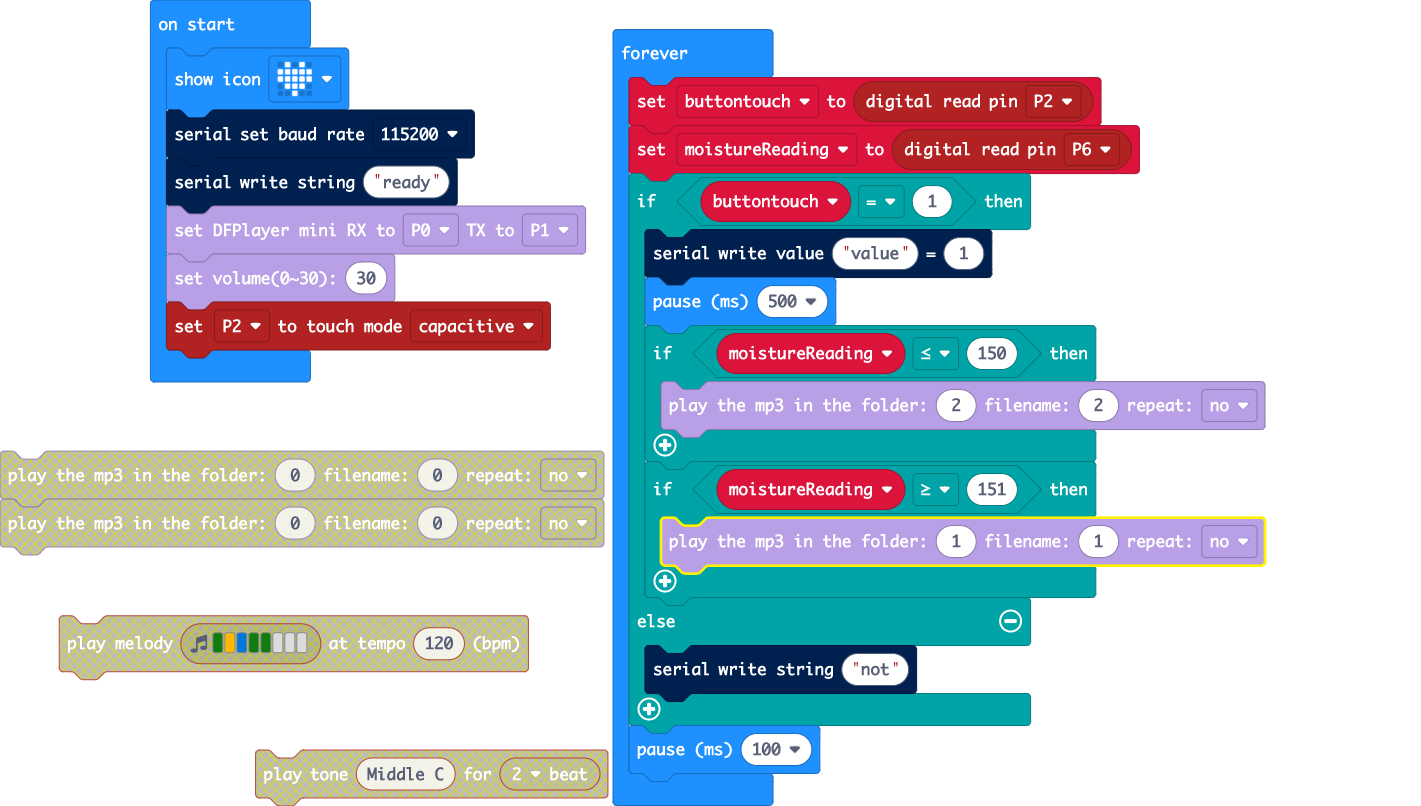
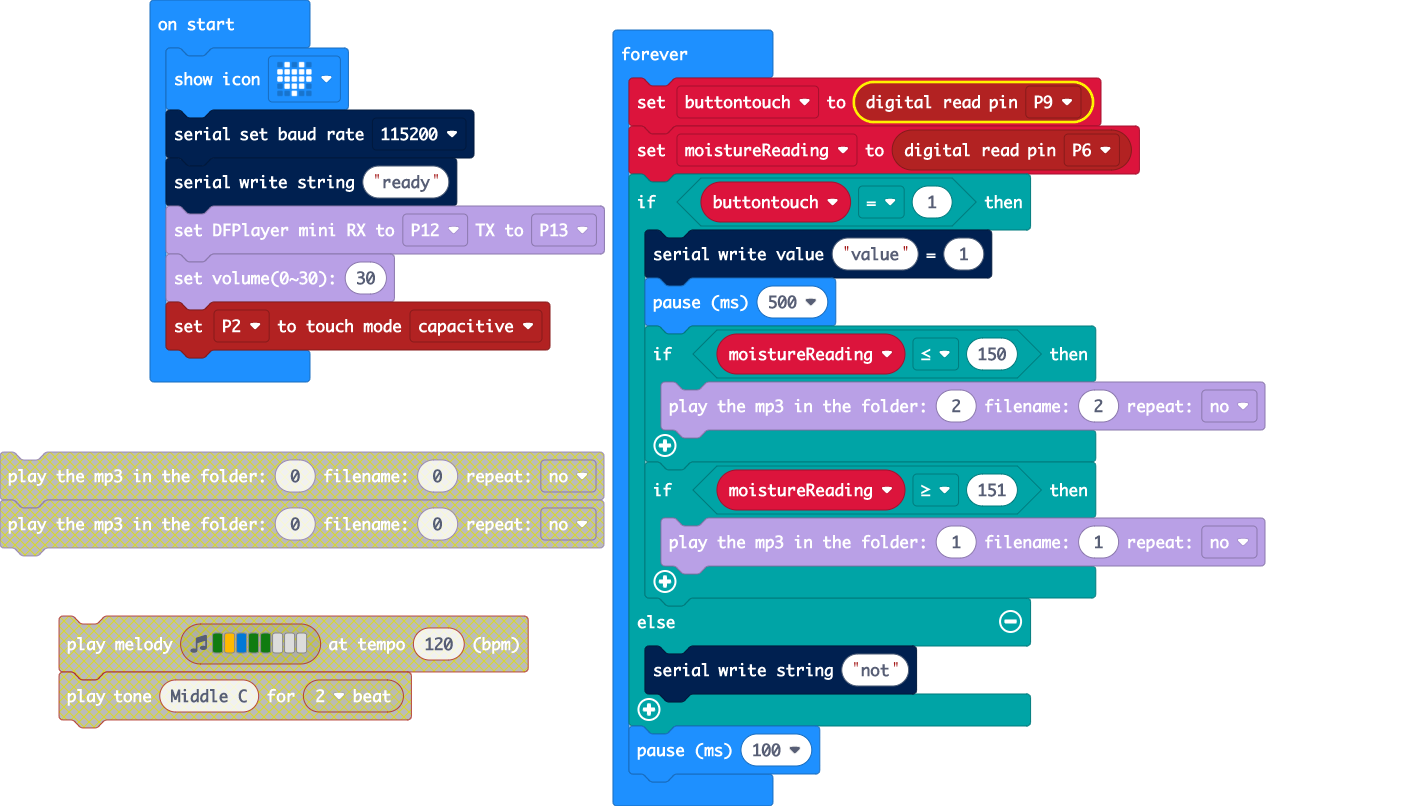
Update main.blocks, main.ts

diff --git a/main.ts b/main.ts
@@ -3,11 +3,11 @@ let buttontouch = 0
 basic.showIcon(IconNames.Heart)
 serial.setBaudRate(BaudRate.BaudRate115200)
 serial.writeString("ready")
-dfplayer.MP3_setSerial(SerialPin.P0, SerialPin.P1)
+dfplayer.MP3_setSerial(SerialPin.P12, SerialPin.P13)
 dfplayer.setVolume(30)
 pins.touchSetMode(TouchTarget.P2, TouchTargetMode.Capacitive)
 basic.forever(function () {
-    buttontouch = pins.digitalReadPin(DigitalPin.P2)
+    buttontouch = pins.digitalReadPin(DigitalPin.P9)
     moistureReading = pins.digitalReadPin(DigitalPin.P6)
     if (buttontouch == 1) {
         serial.writeValue("value", 1)
